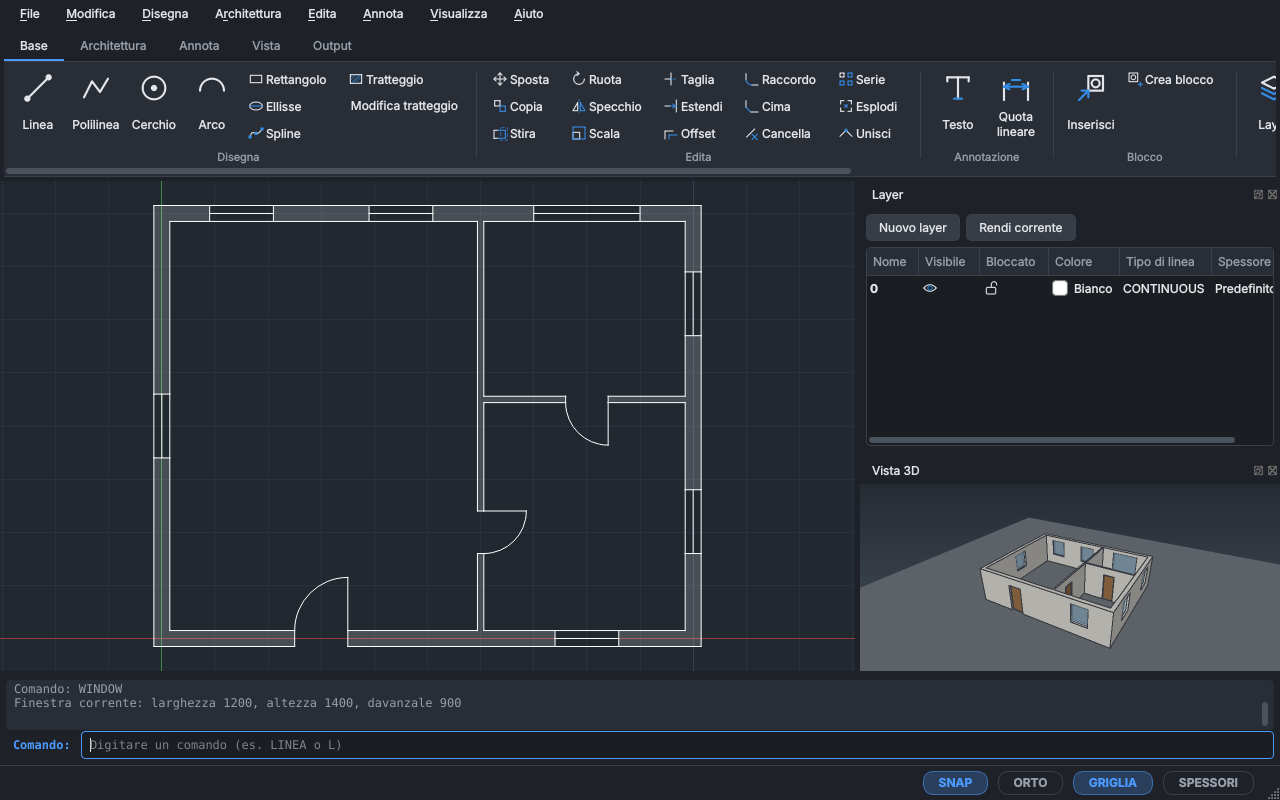
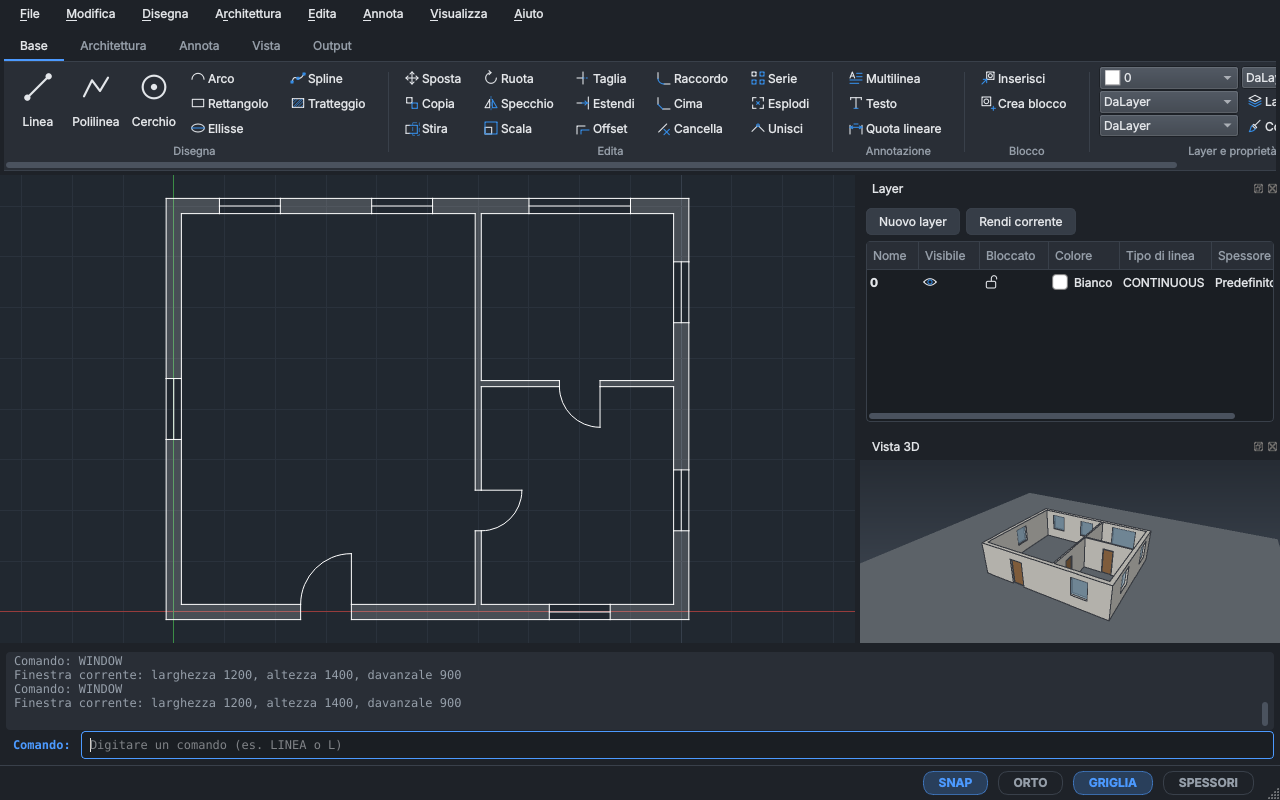
Ribbon Base che sta in 1400 pixel, cronologia comandi più alta con le risposte
The Base page uses small buttons for Annotazione, Blocco and the merged
Layer e proprietà panel and moves Utilità to the Vista page, so it no
longer needs its scroll bar at 1400 pixels. The command history is five
lines and keeps each answer after its prompt; coordinates show two
decimals.

Claude-Session: https://claude.ai/code/session_01EKzmpudChmSYdYZ1hMcAGT

diff --git a/src/app/mainwindow.cpp b/src/app/mainwindow.cpp
@@ -141,7 +141,12 @@ MainWindow::MainWindow()
     infoDock_->hide();
 
     CommandInput* input = commandLine_->input();
-    connect(input, &CommandInput::submitted, &engine_, &CommandEngine::submit);
+    // Inside a command the history keeps each answer after its prompt, as AutoCAD does.
+    connect(input, &CommandInput::submitted, this, [this](const QString& value) {
+        if (!engine_.activeCommandName().isEmpty() && !value.trimmed().isEmpty())
+            commandLine_->appendMessage(QStringLiteral("%1 %2").arg(engine_.prompt(), value.trimmed()));
+        engine_.submit(value);
+    });
     connect(input, &CommandInput::escapePressed, &engine_, &CommandEngine::cancel);
     connect(input, &CommandInput::deletePressed, &engine_, &CommandEngine::eraseSelection);
     connect(&engine_, &CommandEngine::promptChanged, commandLine_, &CommandLine::setPrompt);
@@ -454,7 +459,9 @@ void MainWindow::createActions()
     commandAction(tr("Quota raggio"), QStringLiteral("DIMRADIUS"), icons::make(QStringLiteral("dimRadius")));
     commandAction(tr("Quota diametro"), QStringLiteral("DIMDIAMETER"), icons::make(QStringLiteral("dimDiameter")));
     commandAction(tr("Scala quote"), QStringLiteral("DIMSCALE"));
-    commandAction(tr("Corrispondenza proprietà"), QStringLiteral("MATCHPROP"), icons::make(QStringLiteral("matchProperties")));
+    // The short name on buttons; menus and the tooltip keep the full one.
+    commandAction(tr("Corrispondenza proprietà"), QStringLiteral("MATCHPROP"), icons::make(QStringLiteral("matchProperties")))
+        ->setIconText(tr("Copia proprietà"));
     commandAction(tr("Cambia proprietà"), QStringLiteral("CHPROP"));
     commandAction(tr("Scala tipo di linea"), QStringLiteral("LTSCALE"));
 
@@ -665,29 +672,24 @@ void MainWindow::createRibbon()
 
     QWidget* home = ribbon_->addPage(tr("Base"));
     RibbonPanel* p = ribbon_->addPanel(home, tr("Disegna"));
-    large(p, {"LINE", "PLINE", "CIRCLE", "ARC"});
-    small(p, {"RECTANG", "ELLIPSE", "SPLINE", "HATCH", "HATCHEDIT"});
+    large(p, {"LINE", "PLINE", "CIRCLE"});
+    // Editing a hatch is on the Annota page.
+    small(p, {"ARC", "RECTANG", "ELLIPSE", "SPLINE", "HATCH"});
     p = ribbon_->addPanel(home, tr("Edita"));
     small(p, {"MOVE", "COPY", "STRETCH", "ROTATE", "MIRROR", "SCALE", "TRIM", "EXTEND", "OFFSET", "FILLET", "CHAMFER", "ERASE",
               "ARRAY", "EXPLODE", "JOIN"});
     p = ribbon_->addPanel(home, tr("Annotazione"));
-    large(p, {"TEXT", "DIMLINEAR"});
+    small(p, {"MTEXT", "TEXT", "DIMLINEAR"});
     p = ribbon_->addPanel(home, tr("Blocco"));
-    large(p, {"INSERT"});
-    small(p, {"BLOCK"});
-    p = ribbon_->addPanel(home, tr("Layer"));
-    large(p, {"layers"});
+    small(p, {"INSERT", "BLOCK"});
+    // Small buttons and combo boxes only, so the page fits a 1280 pixel window.
+    p = ribbon_->addPanel(home, tr("Layer e proprietà"));
     auto* style = new StyleControls(engine_, p);
     p->addSmall(style->layerCombo());
-    p = ribbon_->addPanel(home, tr("Proprietà"));
-    large(p, {"MATCHPROP"});
     p->addSmall(style->colorCombo());
     p->addSmall(style->linetypeCombo());
     p->addSmall(style->lineweightCombo());
-    p = ribbon_->addPanel(home, tr("Utilità"));
-    large(p, {"zoom"});
-    small(p, {"undo", "redo"});
-    small(p, {"DIST", "AREA", "LIST"});
+    small(p, {"layers", "MATCHPROP"});
 
     QWidget* arch = ribbon_->addPage(tr("Architettura"));
     p = ribbon_->addPanel(arch, tr("Costruzione"));
@@ -717,6 +719,9 @@ void MainWindow::createRibbon()
     QWidget* viewPage = ribbon_->addPage(tr("Vista"));
     p = ribbon_->addPanel(viewPage, tr("Navigazione"));
     large(p, {"zoom", "plan", "view3d"});
+    p = ribbon_->addPanel(viewPage, tr("Utilità"));
+    small(p, {"undo", "redo"});
+    small(p, {"DIST", "AREA", "LIST"});
     p = ribbon_->addPanel(viewPage, tr("Aiuti al disegno"));
     small(p, {"osnap", "grid", "ortho"});
     p = ribbon_->addPanel(viewPage, tr("Vista 3D"));
@@ -850,7 +855,7 @@ void MainWindow::createStatusBar()
         statusBar()->addPermanentWidget(b);
     }
     connect(view_, &CadView::cursorMoved, this, [this](Vec2 p) {
-        coordinates_->setText(QStringLiteral("X: %1   Y: %2").arg(p.x, 0, 'f', 4).arg(p.y, 0, 'f', 4));
+        coordinates_->setText(QStringLiteral("X %1   Y %2").arg(p.x, 0, 'f', 2).arg(p.y, 0, 'f', 2));
     });
     updateToggles();
 }

diff --git a/src/app/stylecontrols.cpp b/src/app/stylecontrols.cpp
@@ -62,9 +62,9 @@ std::optional<T> common(const CommandEngine& engine, Get get)
 StyleControls::StyleControls(CommandEngine& engine, QWidget* parent)
     : QObject(parent), engine_(engine), parent_(parent)
 {
-    layer_ = combo(parent, tr("Layer"), 150);
+    layer_ = combo(parent, tr("Layer"), 140);
     color_ = combo(parent, tr("Colore"), 120);
-    linetype_ = combo(parent, tr("Tipo di linea"), 150);
+    linetype_ = combo(parent, tr("Tipo di linea"), 120);
     lineweight_ = combo(parent, tr("Spessore di linea"), 120);
     connect(layer_, &QComboBox::activated, this, &StyleControls::layerChosen);
     connect(color_, &QComboBox::activated, this, &StyleControls::colorChosen);

diff --git a/src/app/theme.cpp b/src/app/theme.cpp
@@ -100,6 +100,7 @@ QTabWidget#ribbon { background: @window; }
 QTabWidget#ribbon QTabBar::tab { padding: 7px 16px 6px 16px; }
 QScrollArea#ribbonPage, QWidget#ribbonContent { background: @panel; border-top: 1px solid @border; border-bottom: 1px solid @border; }
 QWidget#ribbonContent { border: none; }
+QWidget#ribbonContent QToolButton { padding: 2px 3px; }
 QLabel#ribbonPanelTitle { color: @dim; padding-top: 1px; }
 QFrame#ribbonSeparator { background: @border; border: none; margin: 8px 3px 6px 3px; }
 

diff --git a/src/app/commandline.cpp b/src/app/commandline.cpp
@@ -81,7 +81,7 @@ CommandLine::CommandLine(QWidget* parent)
     history_->setFont(mono);
     history_->setFocusPolicy(Qt::NoFocus);
     history_->setMaximumBlockCount(500);
-    history_->setFixedHeight(QFontMetrics(mono).lineSpacing() * 3 + 8);
+    history_->setFixedHeight(QFontMetrics(mono).lineSpacing() * 5 + 8);
 
     prompt_ = new QLabel(this);
     prompt_->setObjectName(QStringLiteral("commandPrompt"));
